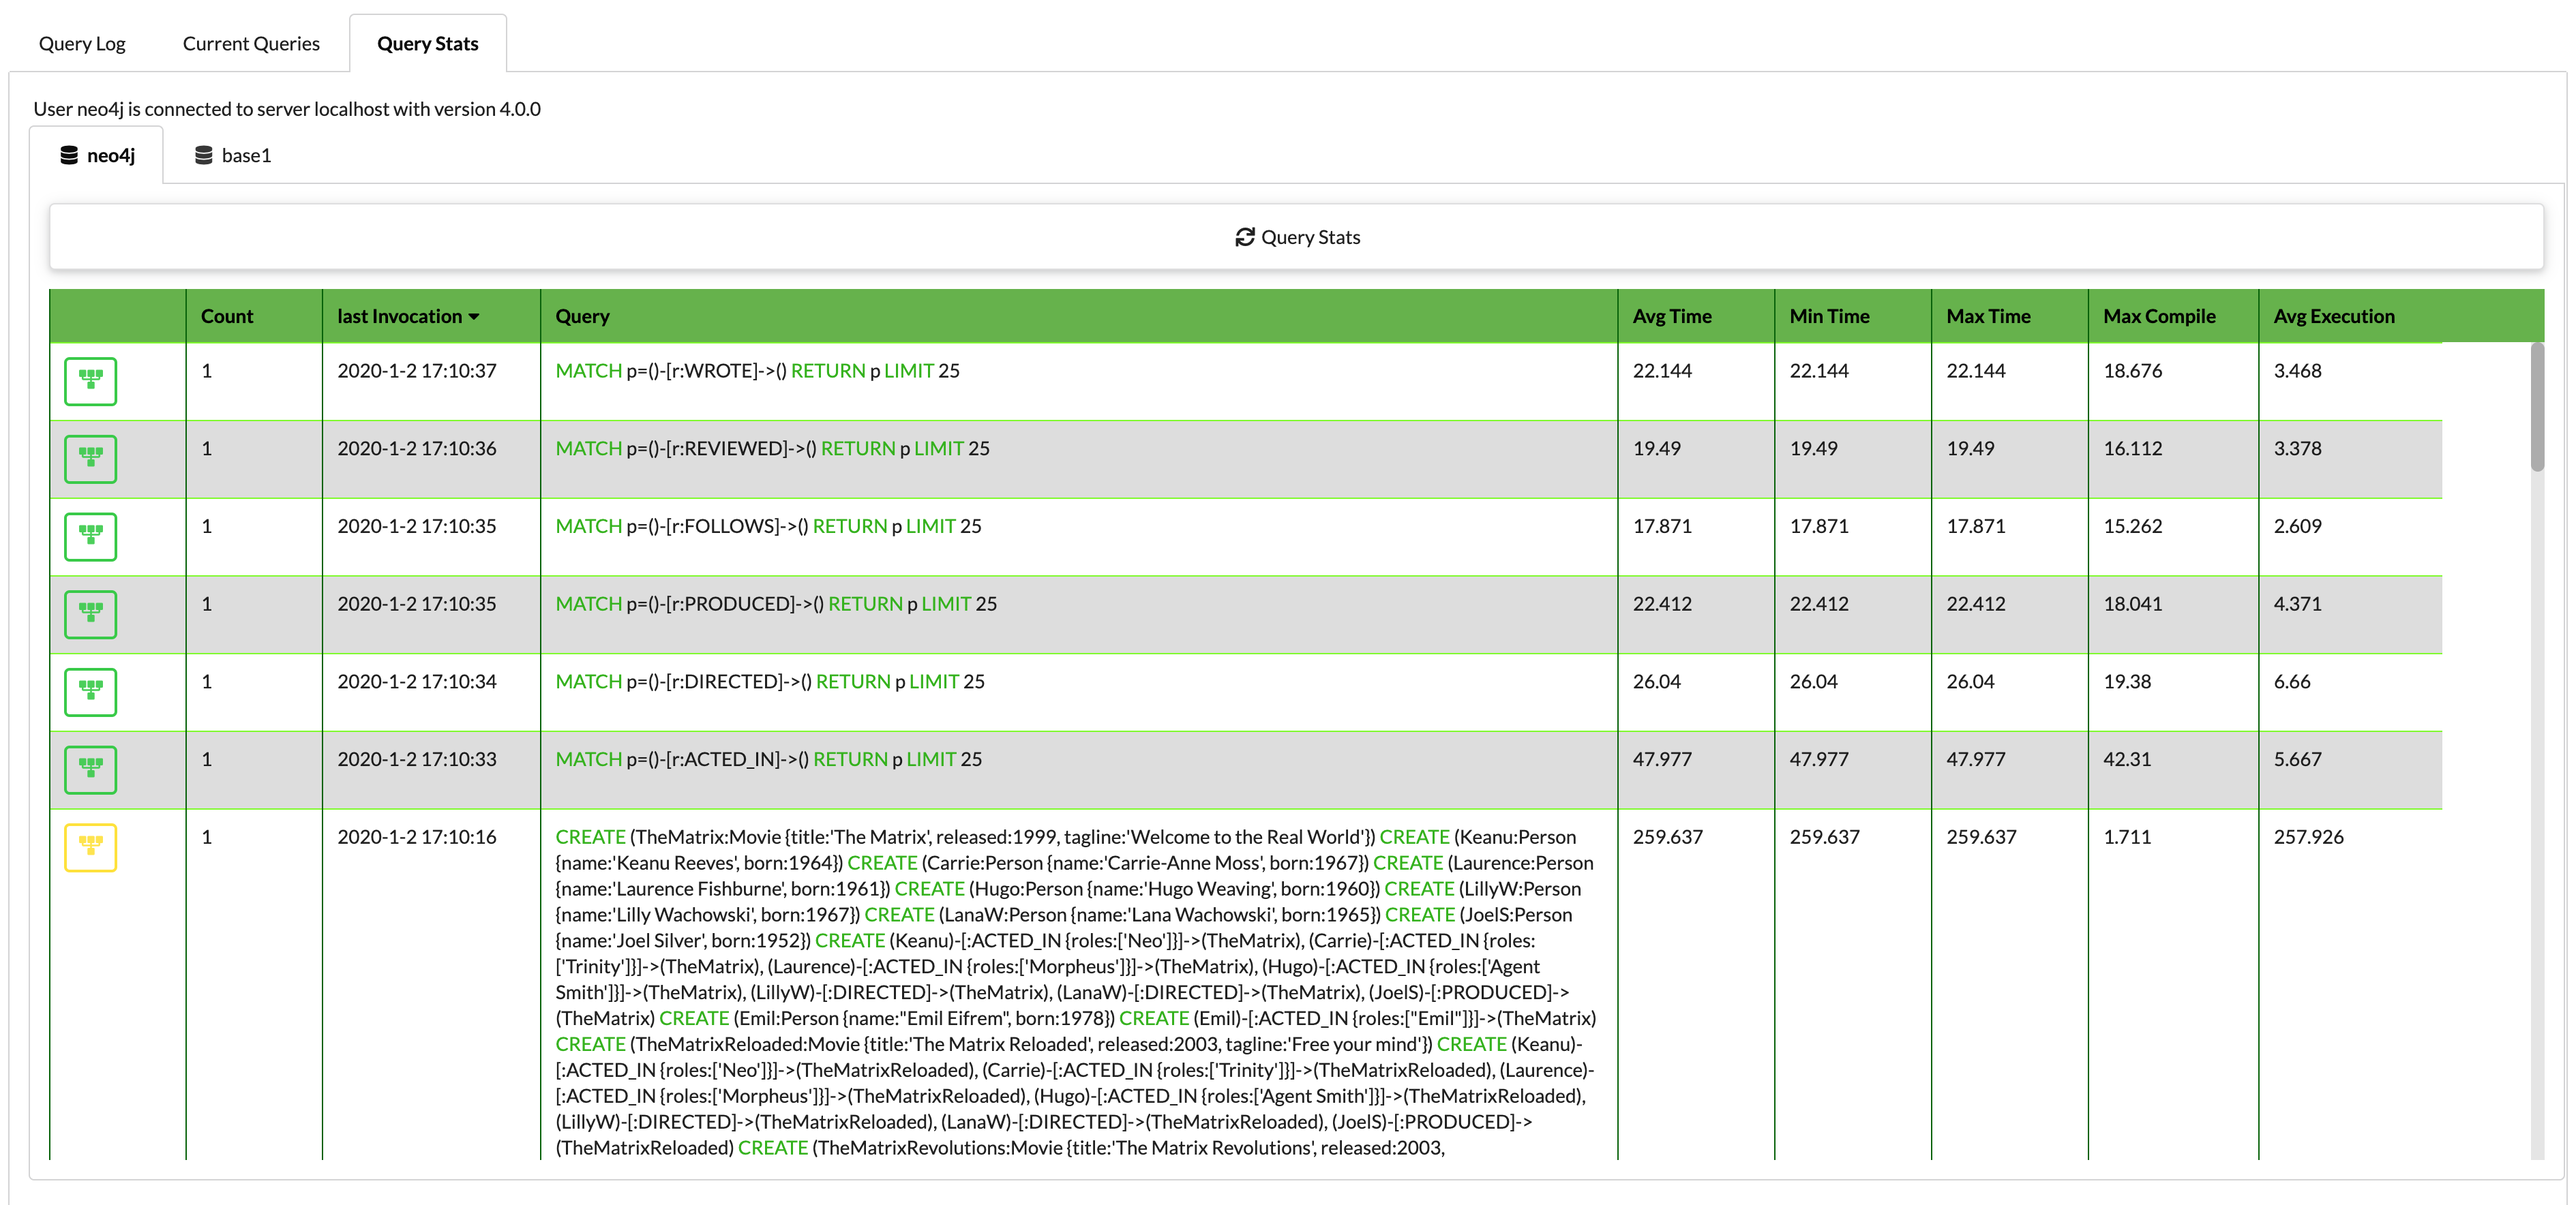
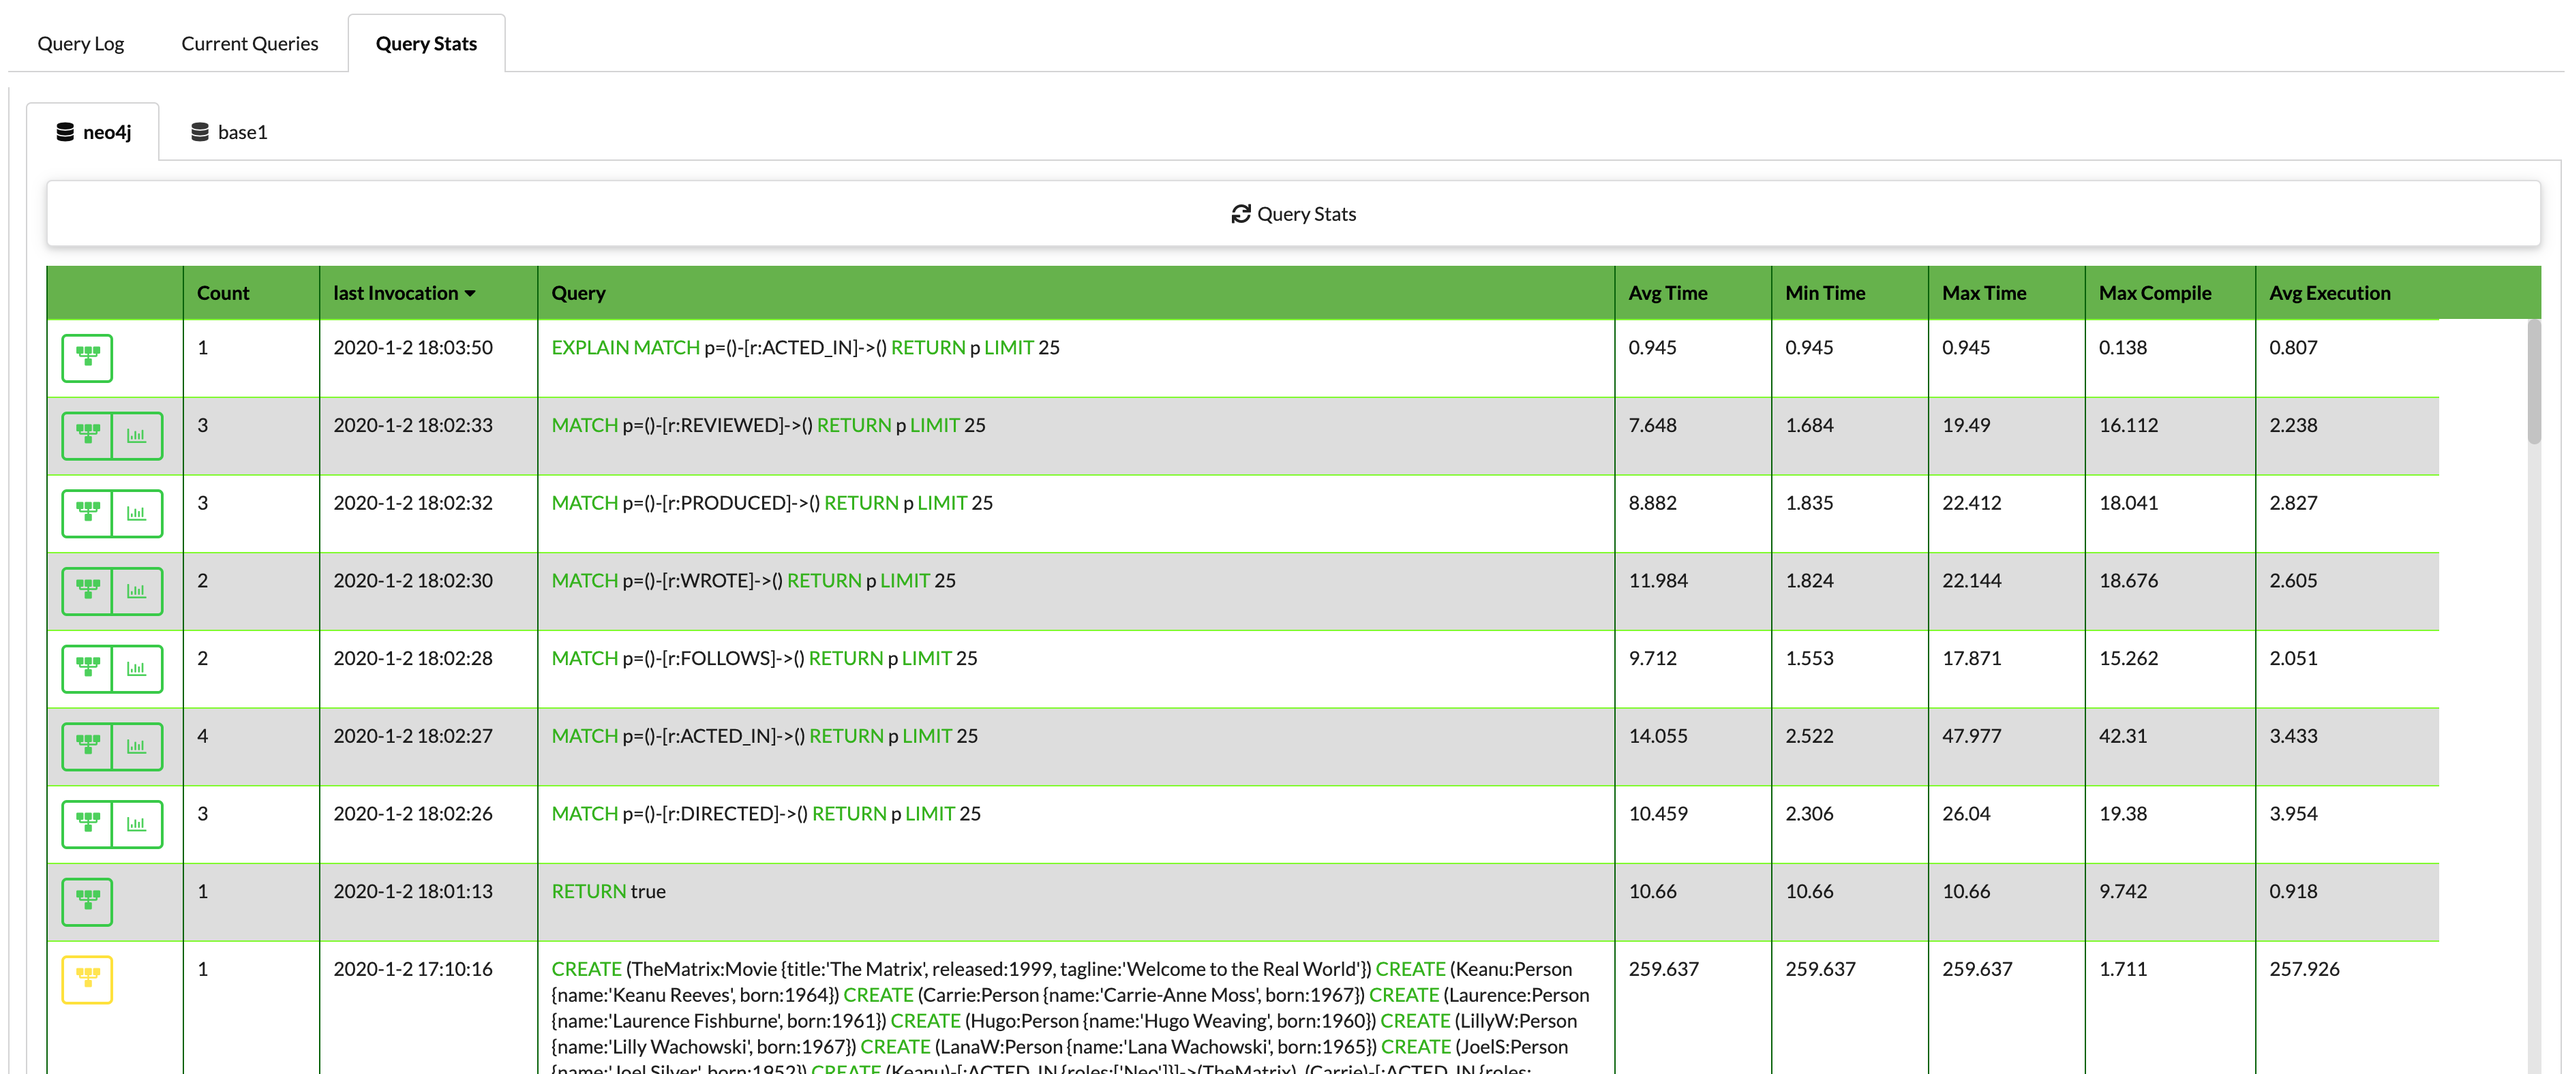
version 1.0.1

diff --git a/index.html b/index.html
@@ -66,12 +66,12 @@
         </div>
     </div>
     <div id="appCurrentQueries" class="ui bottom attached tab segment" data-tab="tabCurrentQueries" style="height: 862px; overflow-x:auto;font-size: .8em; margin: 1em 0;" >
-        <table width="100%"><tr><td><div id="curQueriesMessage">Need connection to database server to use this function</div></td></tr></table>
         <div id="queryListApp" style="width: 1860px;"></div>
+        <table width="100%"><tr><td><div id="curQueriesMessage">Need connection to database server to use this function</div></td></tr></table>
     </div>
-    <div id="appTraceQueries" class="ui bottom attached tab segment" data-tab="tabTraceQueries" >
-        <table width="100%"><tr><td><div id="curTraceQueriesMessage">You will need to be connected to a database version of 3.5.4 or higher to have this functionality</div></td></tr></table>
+    <div id="appTraceQueries" class="ui bottom attached tab segment" data-tab="tabTraceQueries"  style="height: 862px; overflow-x:auto;font-size: .8em; margin: 1em 0;">
         <div id="traceQueryApp" style="width: 1860px;"></div>
+        <table width="100%"><tr><td><div id="curTraceQueriesMessage">You will need to be connected to a database version of 3.5.4 or higher to have this functionality</div></td></tr></table>
     </div>
 
 

diff --git a/lib/querylist.js b/lib/querylist.js
@@ -26,12 +26,15 @@ class QueryList {
     async init() {
         let prms;
         if (nac.neoConnection && nac.neoConnection == true) {
-            this.elMessage.innerHTML = "User " + nac.neoUser +  " is connected to server " + nac.neoHost + " with version " + nac.neodb.version;
+
+            this.elMessage.innerHTML = "";
+            console.log("User " + nac.neoUser +  " is connected to server " + nac.neoHost + " with version " + nac.neodb.version);
 
             this.prepareLists(this);
             this.qans = new QueryAnalyzer();
             if ( nac.neodb.majorVersion > 3 || (nac.neodb.majorVersion = 3 && nac.neodb.minorVersion > 3) ) {
-                this.elTraceMessage.innerHTML = "User " + nac.neoUser +  " is connected to server " + nac.neoHost + " with version " + nac.neodb.version;
+                this.elTraceMessage.innerHTML = "";
+
                 this.prepareTrace();
             }
         }

diff --git a/README.md b/README.md
@@ -122,8 +122,7 @@ The Query Timeline is an experimental feature and it plots the amount of queries
 
 <img src="curq.png" />
 
-The Current Queries tab shows the current running queries in the database. When you press the '__Queries__' bar then the current running queries are shown.
-When you have a version 4+ database then you can check for the current running queries per database by using the DB Name tab's.
+When you press the '__Queries__' bar then the current running queries are shown. When you have a version 4+ database then you can check for the current running queries per database by using the DB Name tab's.
 
 Note that some cells can have the value 'null' which means that those timings are not collected. Look at the Query Analysis explanation above how to switch on 'timings' in the neo4j.conf file or via the procedure dbms.setConfigValue().
 
@@ -139,7 +138,11 @@ If you want to fine tune your queries you have here the query times in micro sec
 
 * The First column
 
-  When the query is less than 10.000 characters then a green Explain icon is shown, and when you click on it you can do an explain on this query.
+  |   |   |
+  |---|---|
+  | <img src="explainicon.png"/> | When the query is less than 10.000 characters then a green Explain icon is shown, and when you click on it you can do an explain on this query. |
+  | <img src="timelineicon.png"/> | When there are more than one invocations of a query, then the timeline function is available | 
+    
 
 * Avg Time, Min Time, Max Time
 
